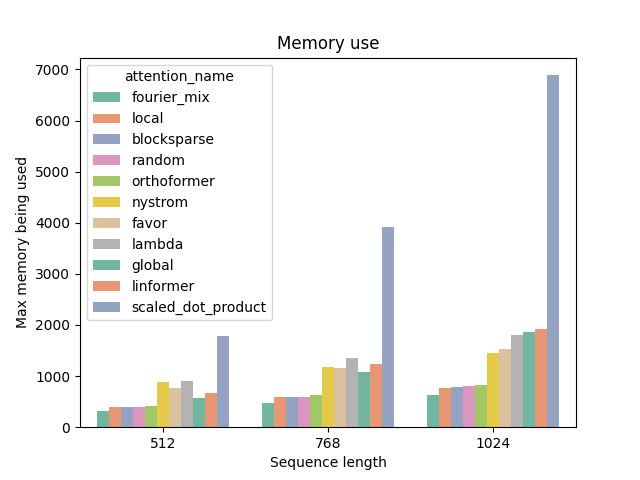
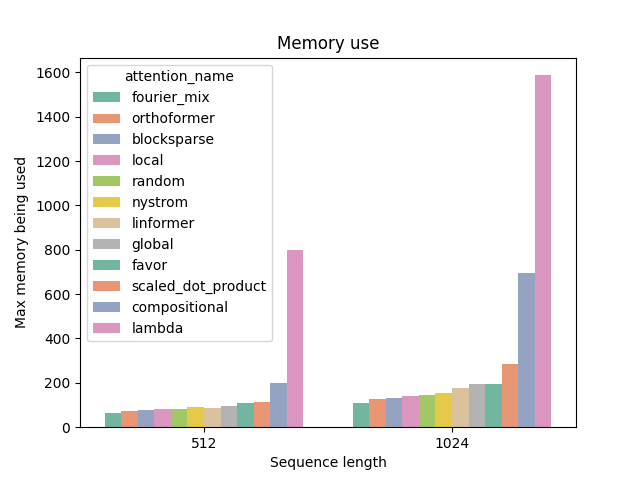
adding the graphs

diff --git a/examples/microGPT.py b/examples/microGPT.py
@@ -69,7 +69,7 @@ class GPT(pl.LightningModule):
                         "causal": True,
                         "seq_len": self.hparams.block_size,
                         "dim_head": self.hparams.n_embd // self.hparams.n_head,
-                        "num_rules": 2 * self.hparams.n_head,
+                        "num_rules": self.hparams.n_head,
                     },
                 },
                 "feedforward_config": {
@@ -275,7 +275,7 @@ if __name__ == "__main__":
     # Adjust batch depending on the available memory on your machine.
     # You can also use reversible layers to save memory
     REF_BATCH = 512
-    BATCH = 64
+    BATCH = 128
 
     WORKERS = 4
     EPOCHS = 1
@@ -306,7 +306,6 @@ if __name__ == "__main__":
         attention="compositional",
         warmup_tokens=REF_BATCH * WARMUP,
         final_tokens=EPOCHS * len(train_dataset) * BLOCK,
-        n_head=4,  # 8 if not compositional, typically
     )
     print(model)
 

diff --git a/BENCHMARKS.md b/BENCHMARKS.md
@@ -11,7 +11,7 @@ Please note that:
 - These numbers are dependent of hyperparameters (dimensions chosen for Linformer, sparsity of the pattern), they are mostly an illustration
 - The sparse attention patterns tested here are just presets, as explained in the linked notebook generating any new sparse attention pattern should be relatively easy, while keeping the benefits of optimized computations.
 
-Some examples, generated with `python3 xformers/benchmarks/benchmark_encoder.py --activations gelu --plot -emb 256 -bs 32 -heads 16`
+Some examples, generated with `python3 xformers/benchmarks/benchmark_encoder.py --activations gelu --plot -emb 256 -bs 8 -heads 4`
 
 ![Memory use for different attentions](docs/plots/memory_vs_attention.png)  ![Runtime for different attentions](docs/plots/runtime_vs_attention.png)
 
